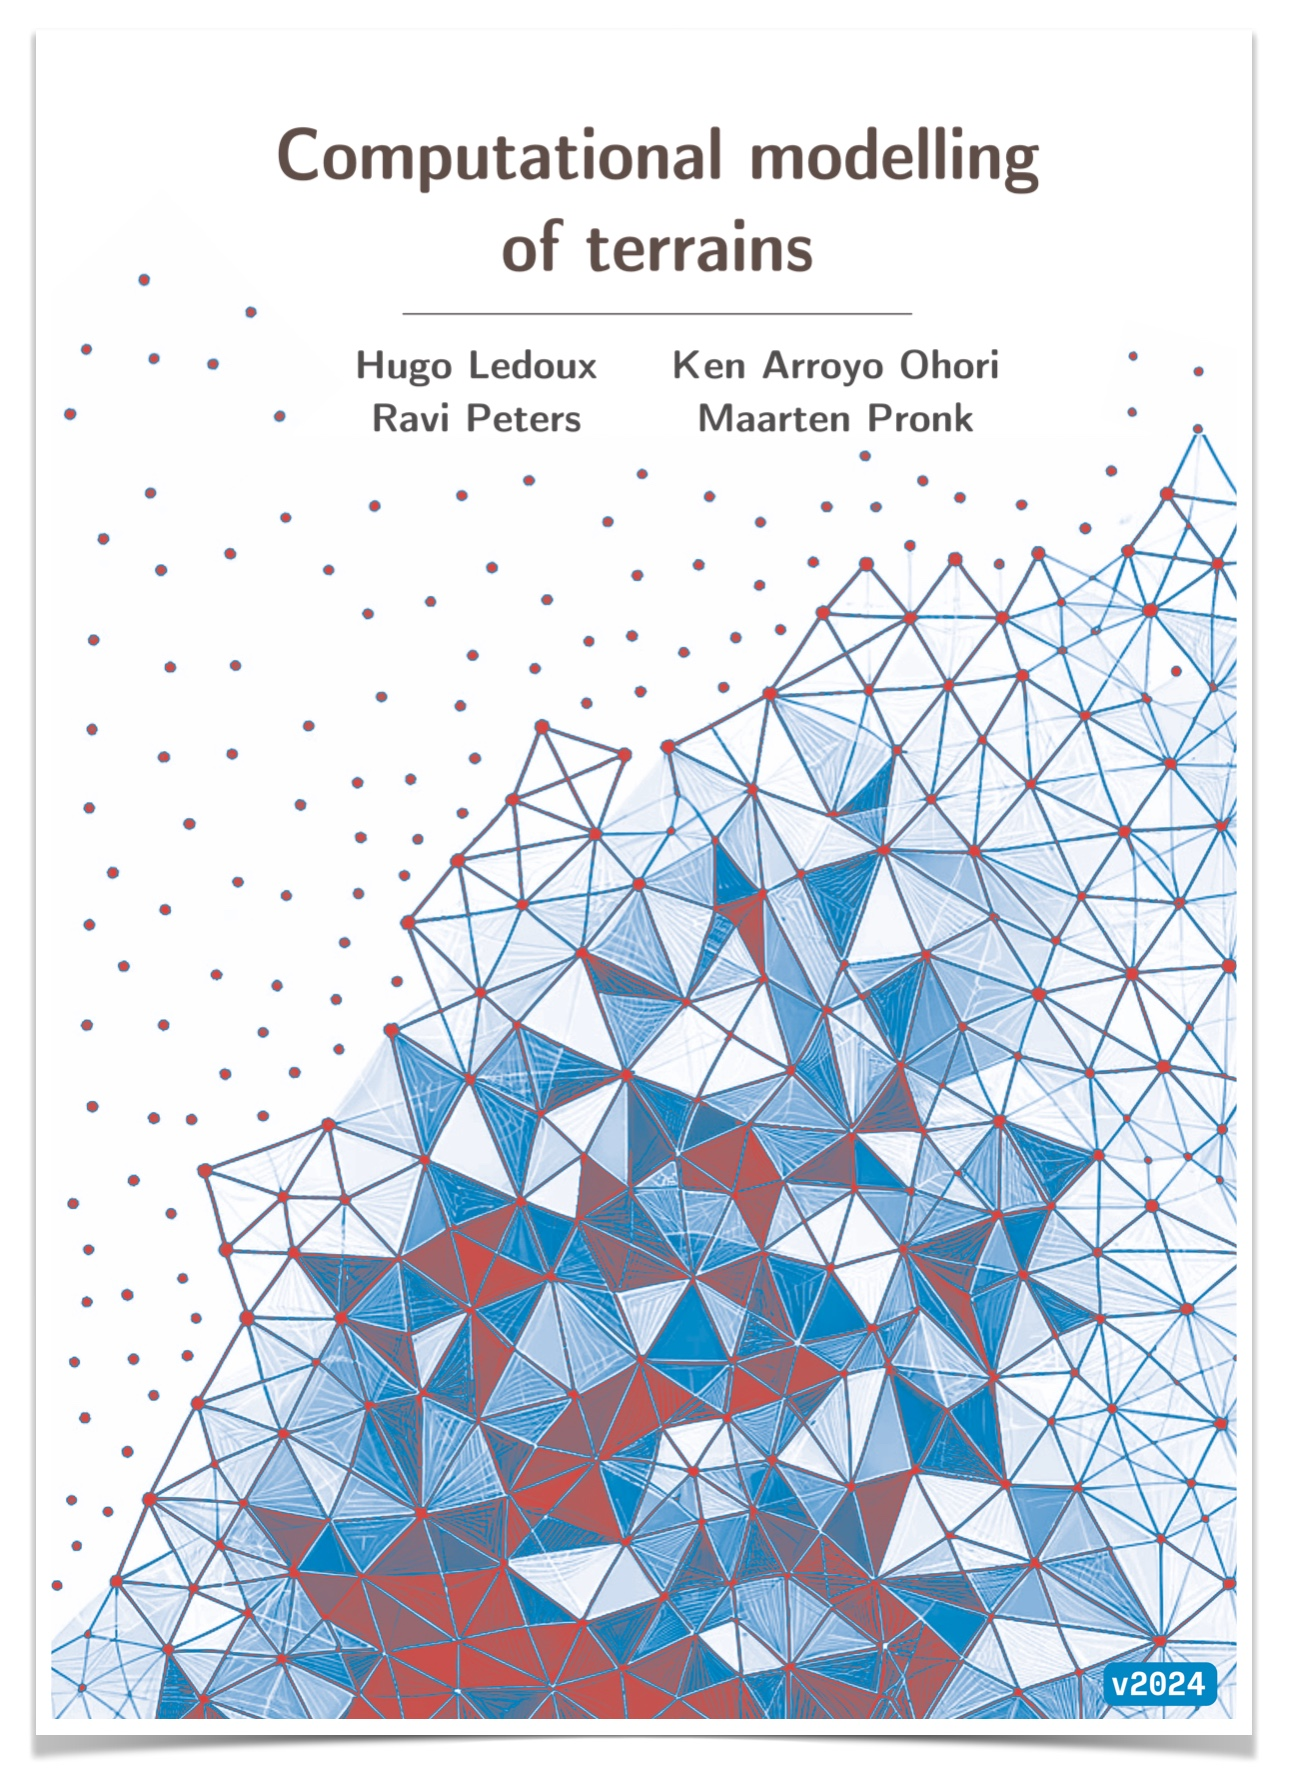
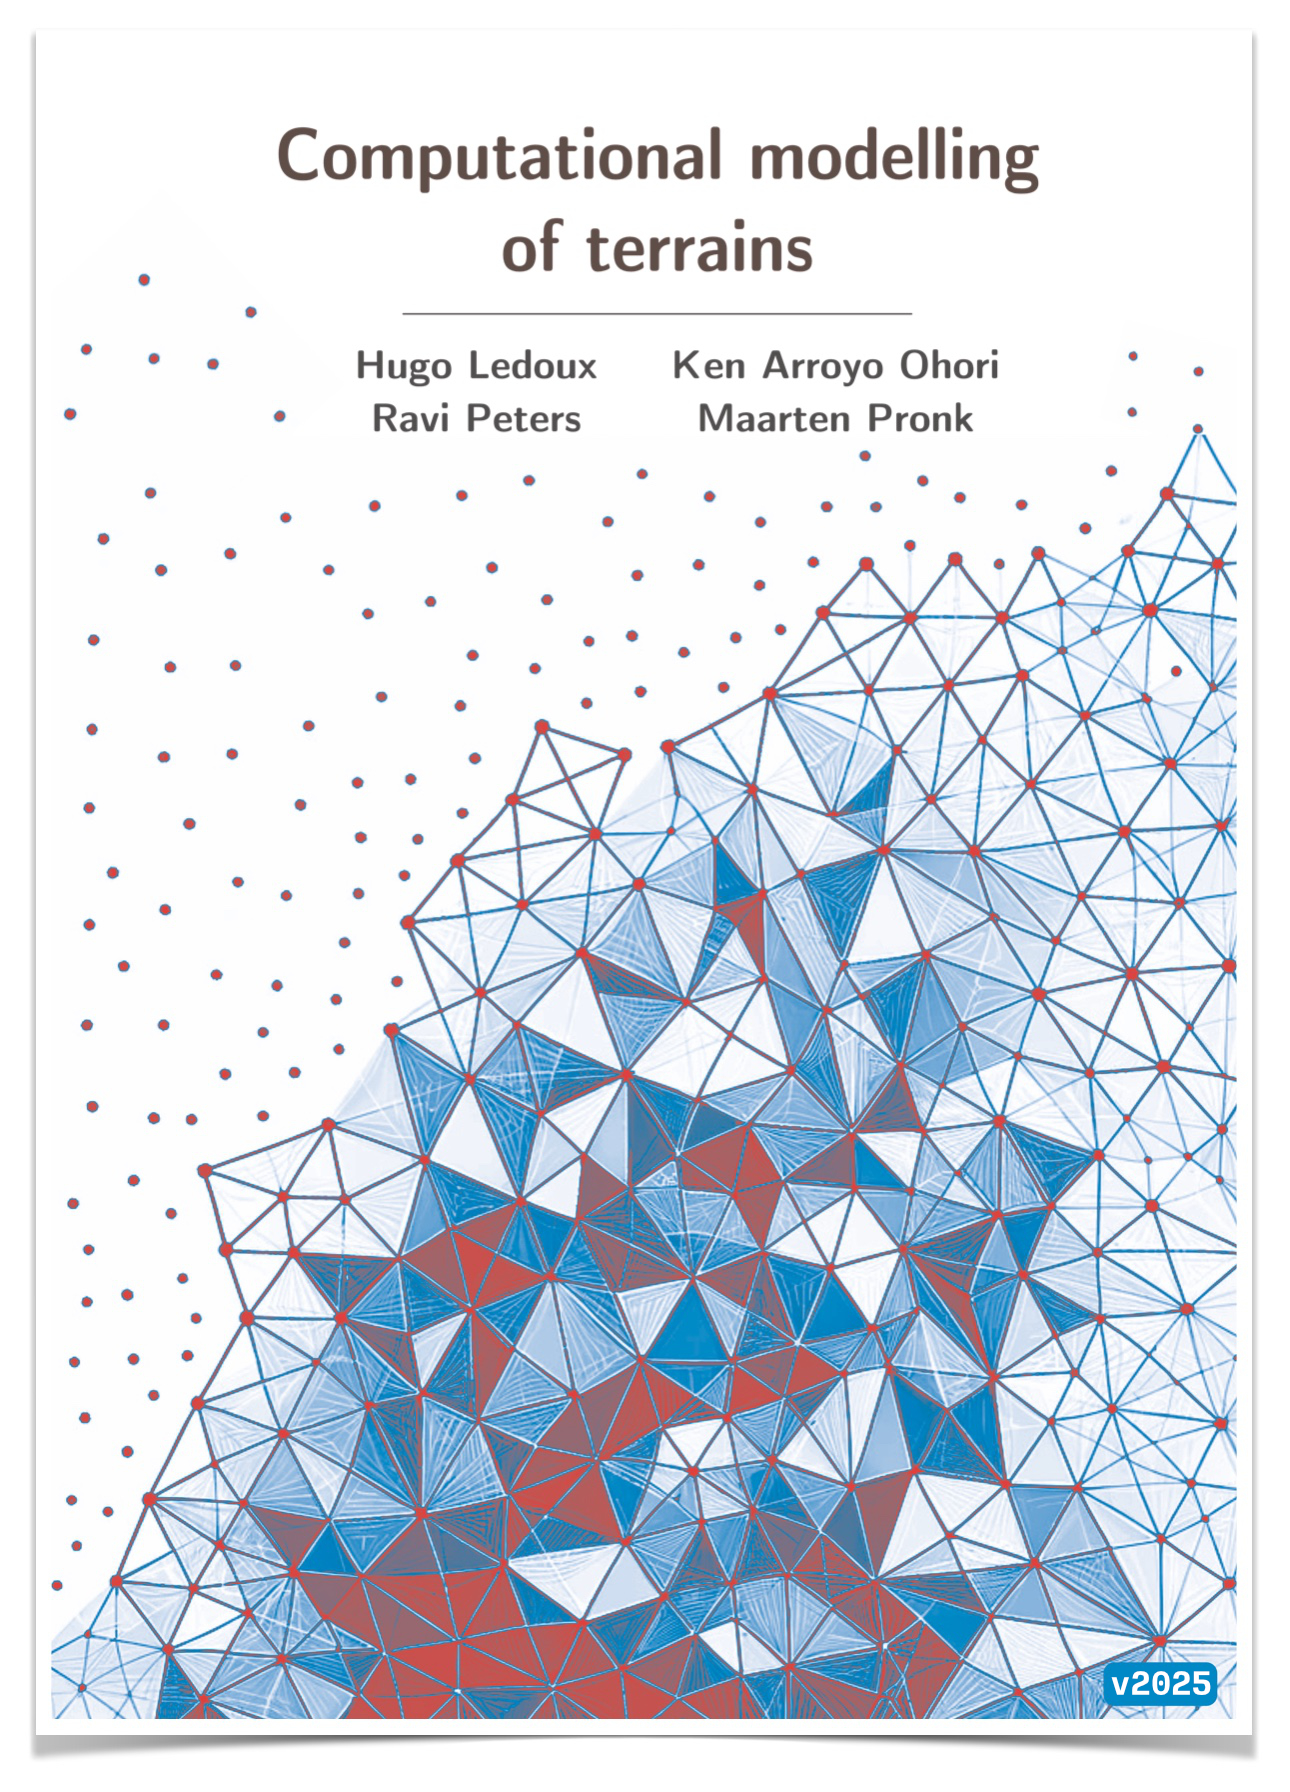
Update cover to 2025 and add it to readme

Changed region(s): [[0.8682, 0.9062, 0.9302, 0.9688]]

diff --git a/README.md b/README.md
@@ -3,6 +3,8 @@
 
 # Computational modelling of terrains
 
+<img src="docs/assets/img/cover.jpg" alt="Book cover" width="250">
+
 The book *Computational modelling of terrains* presents an overview of algorithms and methodologies to reconstruct terrains, to manipulate them, and to extract information from them.
 
 It covers different representations of terrains (\eg\ TINs, rasters, point clouds, contour lines), discusses different applications (visibility analysis, runoff modelling, etc.), presents techniques to handle large datasets, and discusses related topics such as global elevation models and bathymetric datasets.
